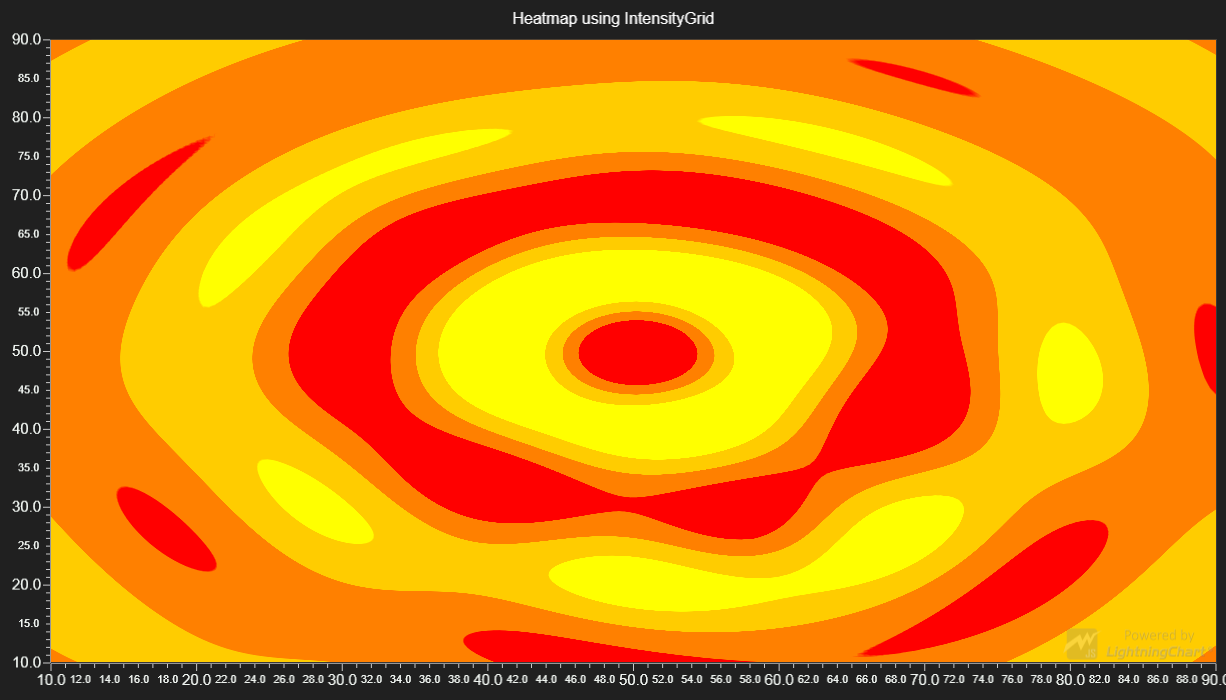
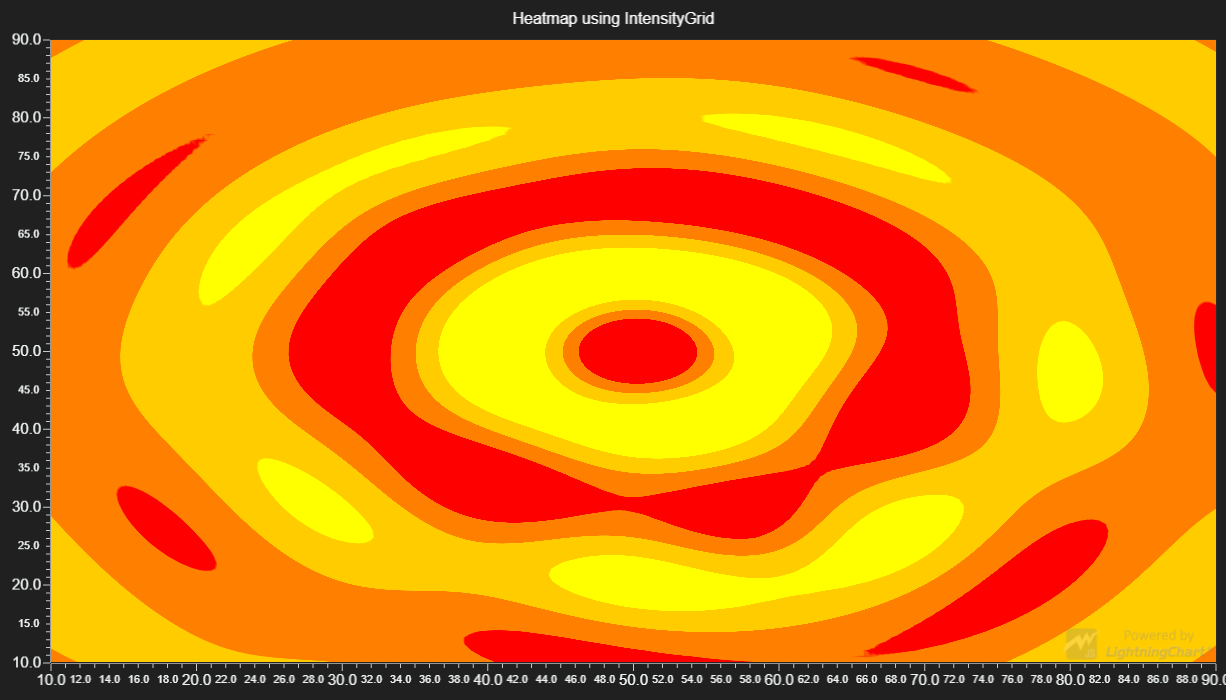
LCJS 2.2.0

diff --git a/src/index.js b/src/index.js
@@ -13,76 +13,10 @@ const {
     Themes
 } = lcjs
 
-/**
- * Generate water drop surface data.
- * @param sizeX Size of output array X dimensions.
- * @param sizeZ Size of output array Z dimensions.
- * @param xPositionsNormalized X positions of drops
- * @param zPositionsNormalized Z positions of drops
- * @param amplitudes Amplitudes
- * @param offsetLevel Offset level
- * @param volatility Volatility, set larger number to generate more waves for each drop
- */
-function WaterDropGenerator(
-    sizeX,
-    sizeZ,
-    xPositionsNormalized,
-    zPositionsNormalized,
-    amplitudes,
-    offsetLevel,
-    volatility
-) {
-    /**
-     * Calculate waves at given point.
-     * @param x wave origin x-coordinate.
-     * @param z wave origin z-coordinate.
-     * @param oscillators Oscillators.
-     * @param volatility Volatility.
-     * @returns wave height at given point.
-     */
-    function CalculateWavesAtPoint(
-        x,
-        z
-    ) {
-        let resultValue = 0
-        const iOscillatorCount = oscillators.length
-        for (let i = 0; i < iOscillatorCount; i++) {
-            const oscillator = oscillators[i]
-            const distX = x - oscillator.centerX
-            const distZ = z - oscillator.centerZ
-            const dist = Math.sqrt(distX * distX + distZ * distZ)
-            resultValue += oscillator.gain * oscillator.amplitude * Math.cos(dist * volatility) * Math.exp(-dist * 3.0)
-        }
-        return resultValue
-    }
+const {
+    createWaterDropDataGenerator
+} = require('@arction/xydata')
 
-    const iOscCount = amplitudes.length
-    const oscillators = []
-
-    for (let iOsc = 0; iOsc < iOscCount; iOsc++) {
-        oscillators[iOsc] = {
-            amplitude: amplitudes[iOsc],
-            centerX: xPositionsNormalized[iOsc],
-            centerZ: zPositionsNormalized[iOsc],
-            gain: 1,
-            offsetY: 0
-        }
-    }
-
-    const result = Array.from(Array(sizeZ)).map(() => Array(sizeX))
-    const dTotalX = 1
-    const dTotalZ = 1
-    const stepX = (dTotalX / sizeX)
-    const stepZ = (dTotalZ / sizeZ)
-
-    // calculate the data
-    for (let row = 0, z = 0; row < sizeZ; row++, z += stepZ) {
-        for (let col = 0, x = 0; col < sizeX; col++, x += stepX) {
-            result[col][row] = CalculateWavesAtPoint(x, z) + offsetLevel
-        }
-    }
-    return result
-}
 
 // Create a XY Chart.
 const chart = lightningChart().ChartXY({
@@ -91,20 +25,9 @@ const chart = lightningChart().ChartXY({
     .setTitle('Heatmap using IntensityGrid')
 
 // Specify the resolution used for the heatmap.
-const sqRes = 200
-const resolutionX = sqRes
-const resolutionY = sqRes
+const resolutionX = 100
+const resolutionY = 200
 
-// Generate data to use for heatmap
-const data = WaterDropGenerator(
-    resolutionX,     // size of nodes in X
-    resolutionY,     // size of nodes in Z
-    [0.2, 0.5, 0.7], // Drop X positions in scale 0...1
-    [0.6, 0.5, 0.3], // Drop Z positions in scale 0...1
-    [15, 50, 3],     // Amplitudes, as Y axis values
-    47,              // Offset level (mid-Y)
-    25               // Volatility, wave generating density
-)
 // Create LUT and FillStyle
 const palette = new LUT({
     steps: [
@@ -117,15 +40,21 @@ const palette = new LUT({
     interpolate: false
 })
 
-// Add a Heatmap to the Chart. By default IntensityGrid Series Type is used.
-const heatmap = chart.addHeatmapSeries({
-    rows: resolutionX,
-    columns: resolutionX,
-    start: { x: 10, y: 10 },
-    end: { x: 90, y: 90 },
-    pixelate: false
-})
-    // Add data and invalidate the Series based on added data.
-    .invalidateValuesOnly(data)
-    // Use created Paletted FillStyle for the Heatmap.
-    .setFillStyle(new PalettedFill({ lut: palette }))
+// Generate heatmap data.
+createWaterDropDataGenerator()
+    .setRows( resolutionX )
+    .setColumns( resolutionY )
+    .generate()
+    .then( data => {
+        // Add a Heatmap to the Chart. By default IntensityGrid Series Type is used.
+        const heatmap = chart.addHeatmapSeries({
+            rows: resolutionX,
+            columns: resolutionY,
+            start: { x: 10, y: 10 },
+            end: { x: 90, y: 90 },
+            pixelate: false
+        })
+        .invalidateValuesOnly( data )
+            // Use created Paletted FillStyle for the Heatmap.
+            .setFillStyle(new PalettedFill({ lut: palette }))
+    } )

diff --git a/README.md b/README.md
@@ -126,11 +126,11 @@ Direct developer email support can be purchased through a [Support Plan][4] or b
 © Arction Ltd 2009-2020. All rights reserved.
 
 
-[XY cartesian chart]: https://www.arction.com/lightningchart-js-api-documentation/v2.1.0/classes/chartxy.html
-[Intensity Grid Series]: https://www.arction.com/lightningchart-js-api-documentation/v2.1.0/classes/intensitygridseries.html
-[Paletted Fill]: https://www.arction.com/lightningchart-js-api-documentation/v2.1.0/classes/palettedfill.html
-[Individual Point Fill]: https://www.arction.com/lightningchart-js-api-documentation/v2.1.0/classes/individualpointfill.html
-[Matrix]: https://www.arction.com/lightningchart-js-api-documentation/v2.1.0/globals.html#matrix
-[LUT]: https://www.arction.com/lightningchart-js-api-documentation/v2.1.0/classes/lut.html
-[UpdateColorCallback]: https://www.arction.com/lightningchart-js-api-documentation/v2.1.0/globals.html#updatecolorcallback
+[XY cartesian chart]: https://www.arction.com/lightningchart-js-api-documentation/v2.2.0/classes/chartxy.html
+[Intensity Grid Series]: https://www.arction.com/lightningchart-js-api-documentation/v2.2.0/classes/intensitygridseries.html
+[Paletted Fill]: https://www.arction.com/lightningchart-js-api-documentation/v2.2.0/classes/palettedfill.html
+[Individual Point Fill]: https://www.arction.com/lightningchart-js-api-documentation/v2.2.0/classes/individualpointfill.html
+[Matrix]: https://www.arction.com/lightningchart-js-api-documentation/v2.2.0/globals.html#matrix
+[LUT]: https://www.arction.com/lightningchart-js-api-documentation/v2.2.0/classes/lut.html
+[UpdateColorCallback]: https://www.arction.com/lightningchart-js-api-documentation/v2.2.0/globals.html#updatecolorcallback
 
